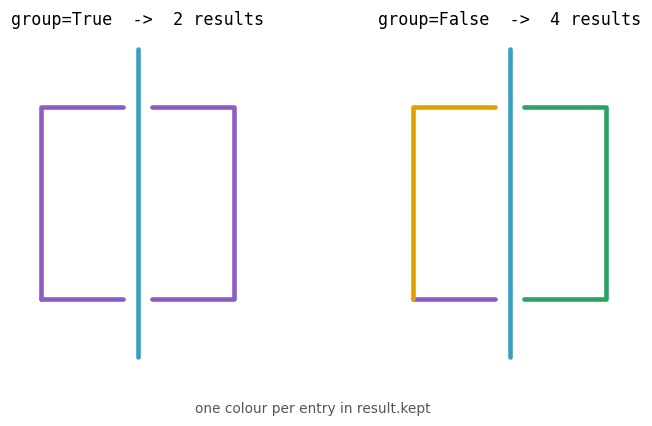
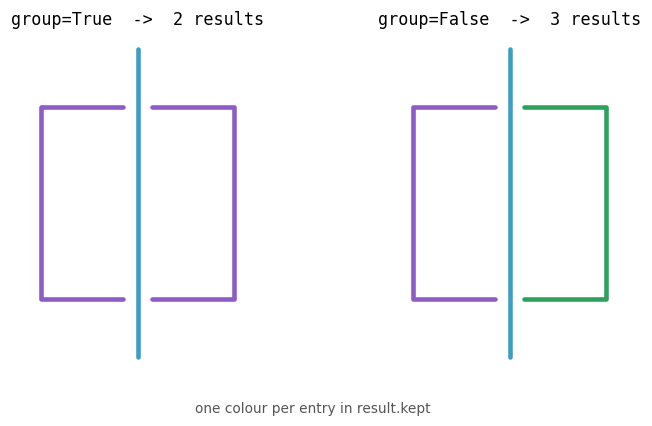
Release 3.2.2: rejoin cut rings at their start vertex, remove hairpin fold-backs in segments mode.
- Pieces that meet end to end are merged after clipping, so the arc through a
  ring's first/last vertex is one piece (and segments mode no longer returns
  loose two-point edges).
- Neighbouring edges are exempt from clipping only if the chain does not fold
  back onto itself; a hairpin's return edge is now suppressed.

Changed region(s): [[0.6135, 0.2441, 0.7669, 0.7019], [0.8282, 0.0305, 0.8589, 0.061]]

diff --git a/src/deoverlap/deoverlap.py b/src/deoverlap/deoverlap.py
@@ -69,6 +69,7 @@ class _SegId:
     index: int
     count: int
     closed: bool
+    heading: float = 0.0  # direction of travel, radians
 
 
 @dataclass
@@ -189,6 +190,17 @@ def _seg_adjacent(a: _SegId, b: _SegId, window: int) -> bool:
     return False
 
 
+def _heading(a: tuple[float, float], b: tuple[float, float]) -> float:
+    return math.atan2(b[1] - a[1], b[0] - a[0])
+
+
+def _folds_back(a: _SegId, b: _SegId, angle_tol_rad: float) -> bool:
+    """True if the chain doubles back: headings nearly opposite (a hairpin)."""
+    d = abs(a.heading - b.heading) % (2 * math.pi)
+    d = min(d, 2 * math.pi - d)
+    return d > math.pi - angle_tol_rad
+
+
 def _reassemble(parts: Sequence[BaseGeometry], original: BaseGeometry) -> BaseGeometry:
     clean = [p for p in parts if p is not None and not p.is_empty]
     if not clean:
@@ -200,6 +212,10 @@ def _reassemble(parts: Sequence[BaseGeometry], original: BaseGeometry) -> BaseGe
         and merged.equals(original.boundary)
     ):
         return original
+    if merged.geom_type == "MultiLineString":
+        # Rejoin pieces that meet end to end: the arc through a ring's start
+        # vertex, or consecutive edges in segments mode.
+        merged = line_merge(merged)
     return merged
 
 
@@ -285,7 +301,7 @@ def _explode_segments(
                         continue
                     segments.append(LineString([a, b]))
                     origins.append(origin)
-                    seg_ids.append(_SegId(chain, i, count, True))
+                    seg_ids.append(_SegId(chain, i, count, True, _heading(a, b)))
                     parent_lengths.append(parent_len)
             else:
                 count = len(coords) - 1
@@ -295,7 +311,7 @@ def _explode_segments(
                         continue
                     segments.append(LineString([a, b]))
                     origins.append(origin)
-                    seg_ids.append(_SegId(chain, i, count, False))
+                    seg_ids.append(_SegId(chain, i, count, False, _heading(a, b)))
                     parent_lengths.append(parent_len)
             chain += 1
 
@@ -407,6 +423,7 @@ class _MaskIndex:
                 seg_id is not None
                 and other_seg is not None
                 and _seg_adjacent(seg_id, other_seg, self.segment_adjacency)
+                and not _folds_back(seg_id, other_seg, angle_tol_rad)
             ):
                 continue
             if self.parallel_only and angle is not None:

diff --git a/tests/test_deoverlap.py b/tests/test_deoverlap.py
@@ -108,6 +108,35 @@ def test_group_keeps_split_ring_as_one_multipart():
     assert len(flat_result.kept) >= 2
 
 
+def test_cut_ring_joins_across_its_start_point():
+    """The arc through the ring's first/last vertex is one piece, not two."""
+    ring = LineString([(0, 0), (2, 0), (2, 2), (0, 2), (0, 0)])
+    cutter = LineString([(1, -1), (1, 3)])
+    grouped = deoverlap([cutter, ring], 0.15, group=True, keep=KeepPolicy.FIRST)
+    assert len(flatten_geometries(grouped.kept_parts[1])) == 2
+    flat = deoverlap([cutter, ring], 0.15, group=False, keep=KeepPolicy.FIRST)
+    assert len(flat.kept) == 3  # cutter + two arcs
+
+
+def test_segments_removes_fold_back_between_neighbours():
+    """A hairpin folds onto itself; neighbouring edges must still suppress."""
+    spike = LineString([(0, 0), (6, 0), (6.5, 0.4), (6, 0.08), (0, 0.08), (0, 0)])
+    result = deoverlap(
+        [spike], 0.1, segments=True, parallel_only=True, keep="first",
+        min_length=0.05, keep_duplicates=True,
+    )
+    kept = result.kept_parts[0]
+    back = LineString([(6.5, 0.4), (6, 0.08)])
+    assert kept.intersection(back.buffer(0.01)).length < 0.1
+
+
+def test_segments_keeps_ordinary_corners():
+    """A 90 degree corner between neighbours is not a fold-back."""
+    square = LineString([(0, 0), (2, 0), (2, 2), (0, 2), (0, 0)])
+    result = deoverlap([square], 0.3, segments=True, parallel_only=True)
+    assert result.kept_parts[0].length == pytest.approx(square.length, abs=0.05)
+
+
 def test_parallel_only_preserves_crossing():
     horizontal = LineString([(0, 0), (4, 0)])
     vertical = LineString([(2, -2), (2, 2)])

diff --git a/src/deoverlap/__init__.py b/src/deoverlap/__init__.py
@@ -1,6 +1,6 @@
 """De-overlap Shapely geometries that sit within a tolerance of each other."""
 
-__version__ = "3.2.1"
+__version__ = "3.2.2"
 
 from .deoverlap import (
     ClipMode,
